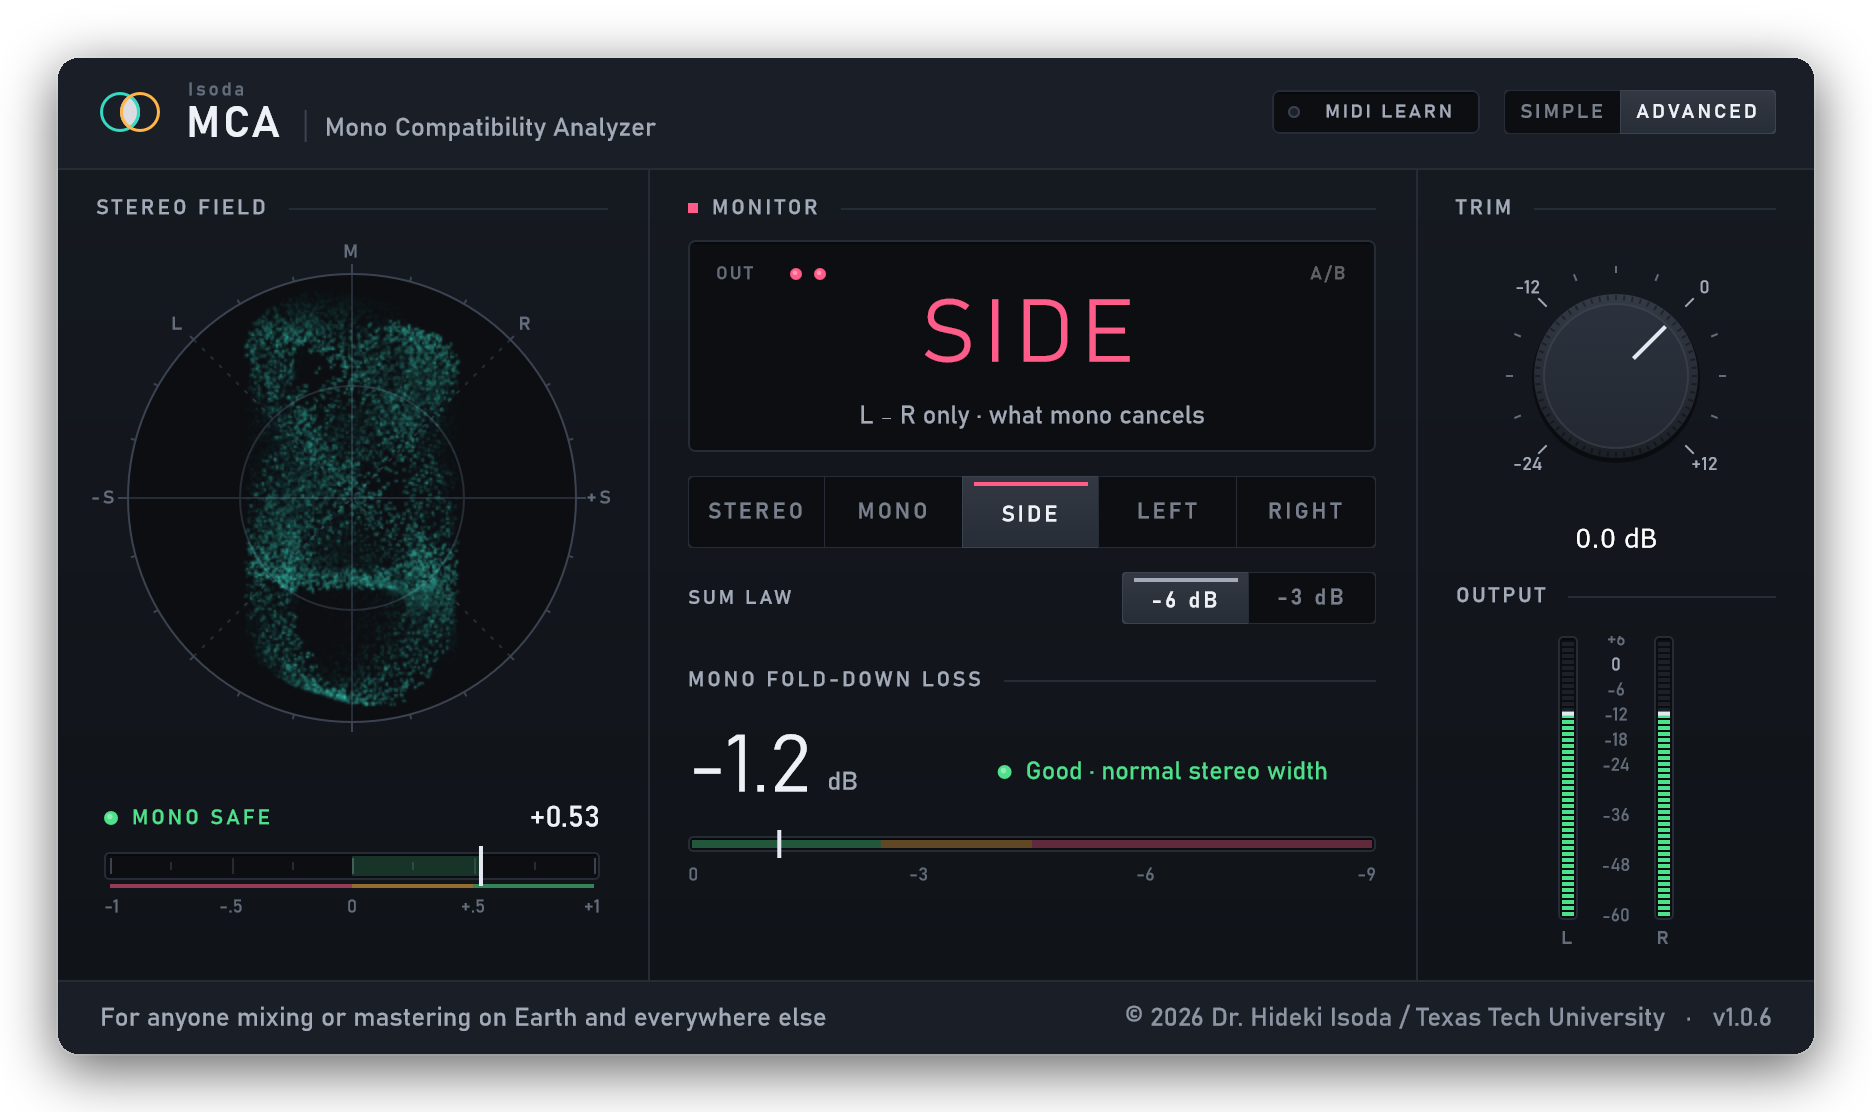
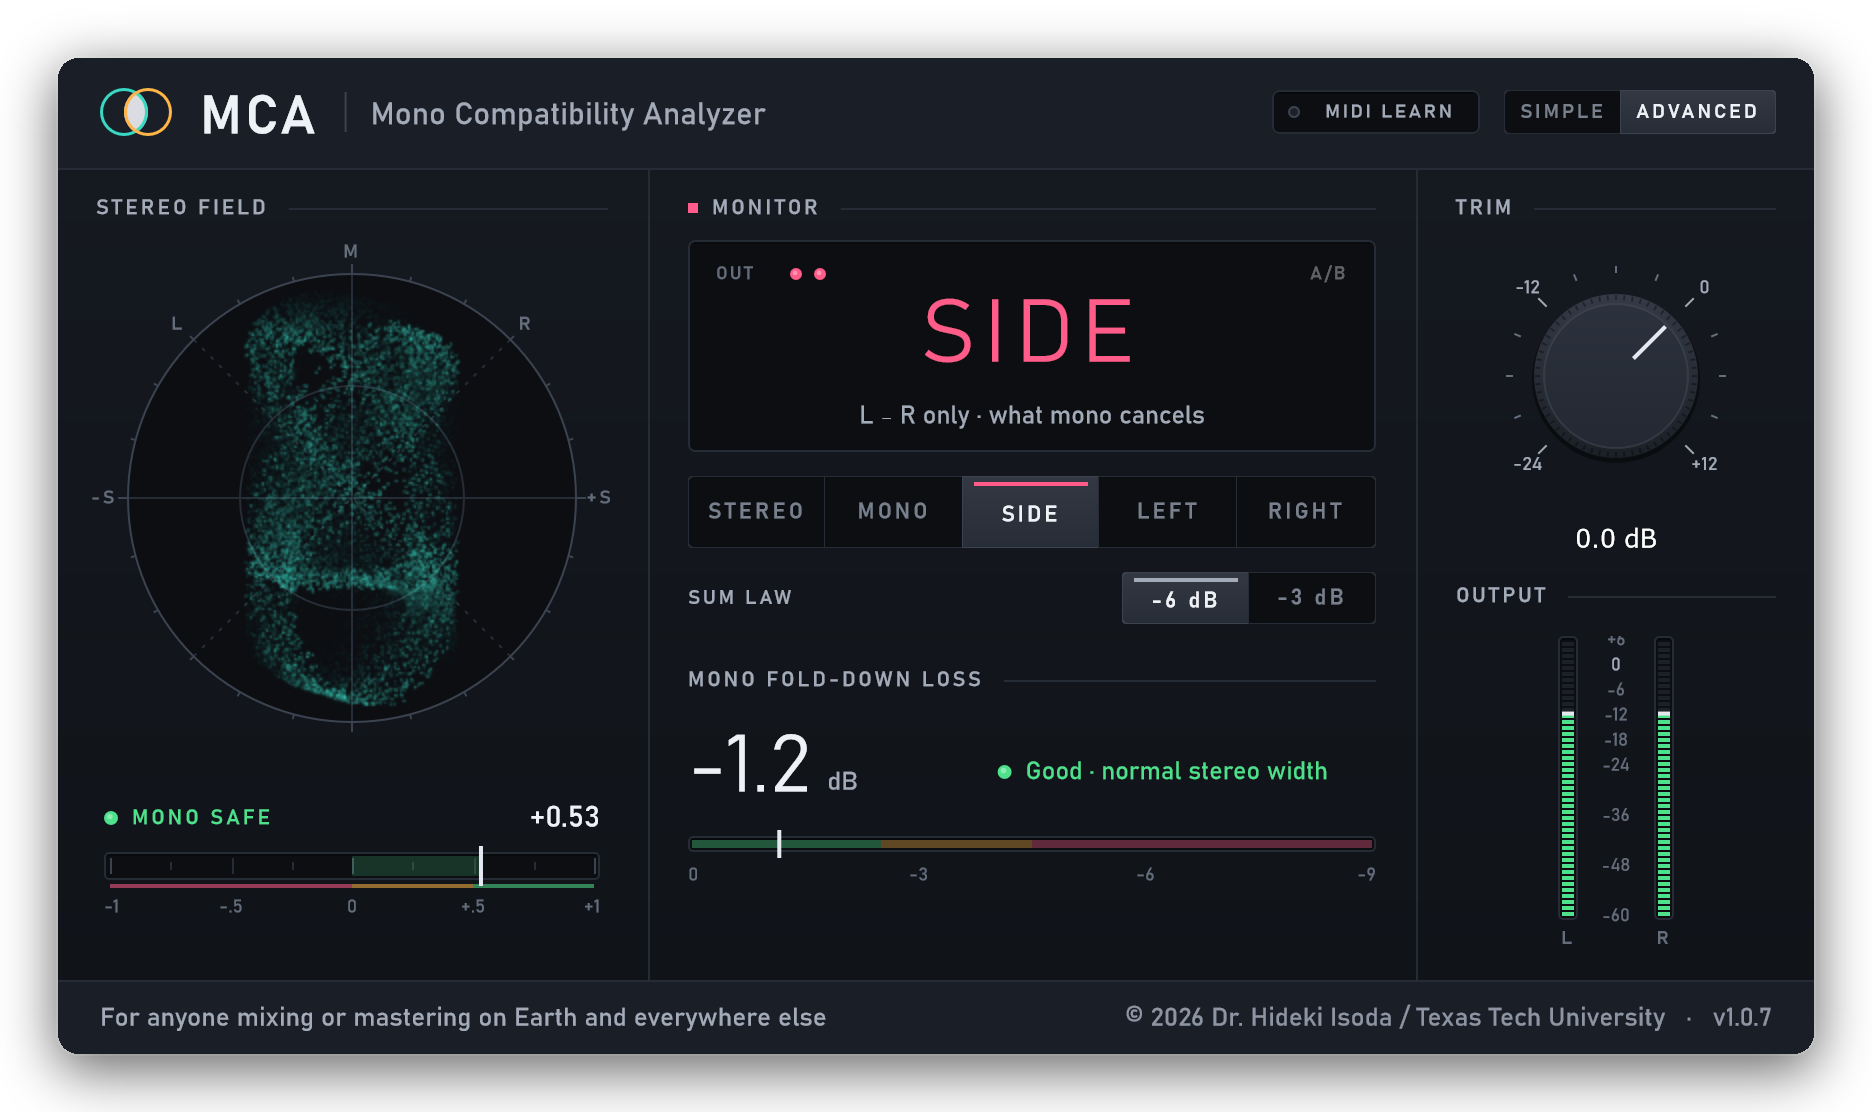
Isoda MCA 1.0.7: macOS installer, cleaner header, Windows unblock screenshot

Changed region(s): [[0.062, 0.0612, 0.4028, 0.1223]]

diff --git a/README.md b/README.md
@@ -7,7 +7,7 @@
 <i>For anyone mixing or mastering on Earth and everywhere else</i></p>
 
 <p align="center">
-  <a href="https://github.com/hidekiisoda/isoda-mca/releases/tag/v1.0.6"><b>Download 1.0.6</b></a> ·
+  <a href="https://github.com/hidekiisoda/isoda-mca/releases/tag/v1.0.7"><b>Download 1.0.7</b></a> ·
   <a href="#install-on-windows">Install on Windows</a> ·
   <a href="#install-on-macos">Install on macOS</a> ·
   <a href="#using-mca">Using MCA</a>
@@ -27,10 +27,10 @@ MCA is a VST3 plug-in for Windows and a VST3 and Audio Unit plug-in for Macs wit
 
 | Platform | Package | Requirements |
 |---|---|---|
-| **Windows** | [Isoda-MCA-1.0.6-Windows-manual-install.zip](https://github.com/hidekiisoda/isoda-mca/releases/download/v1.0.6/Isoda-MCA-1.0.6-Windows-manual-install.zip) | 64-bit Windows 10 or 11, a VST3 host |
-| **macOS** | [Isoda-MCA-1.0.6-macOS-manual-install.zip](https://github.com/hidekiisoda/isoda-mca/releases/download/v1.0.6/Isoda-MCA-1.0.6-macOS-manual-install.zip) | Mac with Apple silicon (M1 or later), macOS 11 or later, a VST3 or Audio Unit host |
+| **Windows** | [Isoda-MCA-1.0.7-Windows-manual-install.zip](https://github.com/hidekiisoda/isoda-mca/releases/download/v1.0.7/Isoda-MCA-1.0.7-Windows-manual-install.zip) | 64-bit Windows 10 or 11, a VST3 host |
+| **macOS** | [Isoda-MCA-1.0.7-macOS.pkg](https://github.com/hidekiisoda/isoda-mca/releases/download/v1.0.7/Isoda-MCA-1.0.7-macOS.pkg) | Mac with Apple silicon (M1 or later), macOS 11 or later, a VST3 or Audio Unit host |
 
-Each package contains the plug-in, a step-by-step install guide, the Quick Start guide and the license. Installation takes about a minute; the steps are below.
+The Windows package contains the plug-in, a step-by-step install guide, the Quick Start guide and the license. The macOS installer puts both the VST3 and the Audio Unit in place. Either way, installation takes about a minute; the steps are below.
 
 ## What it does
 
@@ -50,7 +50,10 @@ Each package contains the plug-in, a step-by-step install guide, the Quick Start
 ## Install on Windows
 
 1. **Remove an older version, if you have one.** If you used an earlier installer, uninstall it in *Settings → Apps → Installed apps*. Otherwise delete any older `ISODA MCA.vst3` folder from `C:\Program Files\Common Files\VST3\`.
-2. **Unblock the download.** Right-click the ZIP → **Properties** → tick **Unblock** at the bottom of the *General* tab → **OK**. Do this *before* extracting, so Windows doesn't flag every file inside.
+2. **Unblock the download.** Right-click the ZIP → **Properties**. At the bottom of the *General* tab, tick **Unblock** (1), then click **OK** (2). Do this *before* extracting, so Windows doesn't flag every file inside.
+
+   <p align="center"><img src="docs/images/windows-unblock.png" width="440" alt="Windows file Properties dialog: tick Unblock, then click OK"></p>
+
 3. **Extract and copy.** Right-click the ZIP → **Extract All…**, then copy the **`Isoda MCA.vst3`** folder into `C:\Program Files\Common Files\VST3\`. Click **Continue** when Windows asks for administrator permission.
 4. **Rescan plug-ins** in your DAW (see [Finding MCA in your DAW](#finding-mca-in-your-daw)).
 
@@ -70,36 +73,45 @@ MCA is free and isn't code-signed with a paid certificate, so Windows treats it 
 
 ## Install on macOS
 
-macOS marks anything downloaded from the internet with a *quarantine* flag. MCA isn't notarized with a paid Apple Developer ID, so the flag has to be removed from the plug-in files before your DAW will load them. One Terminal command does that for these files only; Gatekeeper stays on for everything else.
+1. **Download** `Isoda-MCA-1.0.7-macOS.pkg` and double-click it.
+2. Click **Continue**, read and **Agree** to the license, then click **Install** and enter your Mac password (or use Touch ID).
+3. The installer puts the VST3 in `/Library/Audio/Plug-Ins/VST3` and the Audio Unit in `/Library/Audio/Plug-Ins/Components`. **Customize** lets you skip either one.
+4. **Rescan plug-ins** in your DAW (see [Finding MCA in your DAW](#finding-mca-in-your-daw)).
 
-1. **Unzip** the download: double-click it, if Safari hasn't already. You'll get a folder named `Isoda-MCA-1.0.6-macOS-manual-install` in Downloads.
-2. **Open Terminal**: press ⌘-Space, type *Terminal*, press Return.
-3. Type `cd ` (with a space), **drag the unzipped folder** from Finder into the Terminal window, and press Return.
-4. **Paste these lines** and press Return:
+### If macOS says the installer "can't be opened"
 
-   ```bash
-   xattr -dr com.apple.quarantine .
-   rm -rf ~/Library/Audio/Plug-Ins/VST3/"ISODA MCA.vst3" ~/Library/Audio/Plug-Ins/Components/"ISODA MCA.component"
-   mkdir -p ~/Library/Audio/Plug-Ins/VST3 ~/Library/Audio/Plug-Ins/Components
-   cp -R "Isoda MCA.vst3" ~/Library/Audio/Plug-Ins/VST3/
-   cp -R "Isoda MCA.component" ~/Library/Audio/Plug-Ins/Components/
-   killall -9 AudioComponentRegistrar 2>/dev/null; echo "Done"
-   ```
+MCA is free and isn't notarized with a paid Apple Developer ID, so the first time you open the installer macOS stops it with a message that it "could not verify" it. It contains no network code and collects no data. Allowing it takes four clicks:
 
-   The first line removes the quarantine flag. The second removes an older version if you had one. The next three copy the VST3 and the Audio Unit into your own plug-in folders (no administrator password needed). The last makes macOS register the new Audio Unit straight away.
-5. **Rescan plug-ins** in your DAW (see below).
+**macOS 15 Sequoia and later**
+1. In the message, click **Done**. Don't move the installer to the Bin.
+2. Open **System Settings → Privacy & Security**.
+3. Scroll down to the **Security** section. You'll see *"Isoda-MCA-1.0.7-macOS.pkg" was blocked to protect your Mac*. Click **Open Anyway** next to it.
+4. Enter your password (or use Touch ID), then click **Open Anyway** once more. The installer starts.
 
-<details>
-<summary><b>If a DAW says the plug-in "is damaged" or "can't be opened"</b></summary>
+The *Open Anyway* button is shown for about an hour after the installer was blocked. If you don't see it, double-click the installer again and go straight back to *Privacy & Security*.
 
-Clear the flag on the installed copies and re-apply the local signature that every Apple silicon plug-in needs, then restart the DAW:
+**macOS 11 to 14:** Control-click (or right-click) the installer → **Open** → **Open**.
+
+**Any version, from Terminal:** this removes the download flag from the installer only, after which it opens normally:
 
 ```bash
-xattr -dr com.apple.quarantine ~/Library/Audio/Plug-Ins/VST3/"Isoda MCA.vst3" ~/Library/Audio/Plug-Ins/Components/"Isoda MCA.component"
-codesign --force --deep -s - ~/Library/Audio/Plug-Ins/VST3/"Isoda MCA.vst3" ~/Library/Audio/Plug-Ins/Components/"Isoda MCA.component"
+xattr -d com.apple.quarantine ~/Downloads/Isoda-MCA-1.0.7-macOS.pkg
 ```
 
-If you installed an earlier version with the `.pkg` installer, also delete the old copies in `/Library/Audio/Plug-Ins/VST3` and `/Library/Audio/Plug-Ins/Components` (Finder → Go → Go to Folder…).
+<details>
+<summary><b>Upgrading from 1.0.6, or a DAW says the plug-in "is damaged"</b></summary>
+
+If you installed **1.0.6 from the manual-install ZIP**, remove those copies first, so your DAW doesn't find MCA twice:
+
+```bash
+rm -rf ~/Library/Audio/Plug-Ins/VST3/"Isoda MCA.vst3" ~/Library/Audio/Plug-Ins/Components/"Isoda MCA.component"
+```
+
+If a DAW reports that MCA "is damaged" or "can't be opened", clear the download flag on the installed plug-ins and restart the DAW:
+
+```bash
+sudo xattr -dr com.apple.quarantine "/Library/Audio/Plug-Ins/VST3/Isoda MCA.vst3" "/Library/Audio/Plug-Ins/Components/Isoda MCA.component"
+```
 </details>
 
 ## Finding MCA in your DAW

diff --git a/CHANGELOG.md b/CHANGELOG.md
@@ -1,5 +1,11 @@
 # Changelog
 
+## 1.0.7 (Windows and macOS)
+
+- **Cleaner header.** "MCA" and "Mono Compatibility Analyzer" are larger and line up with the logo.
+- **macOS installer.** The Mac version now comes as a standard `.pkg` installer that puts the VST3 and the Audio Unit in place. It replaces the manual-install ZIP.
+- **Clearer install guide**, with a screenshot of the Windows *Unblock* step and step-by-step help for the macOS *Open Anyway* button.
+
 ## 1.0.6 (Windows and macOS)
 
 - **New name in your DAW.** The plug-in is now listed as **MCA** by **Isoda**, in the *Analyzer* category. Projects saved with earlier versions still open it, with all settings intact.
